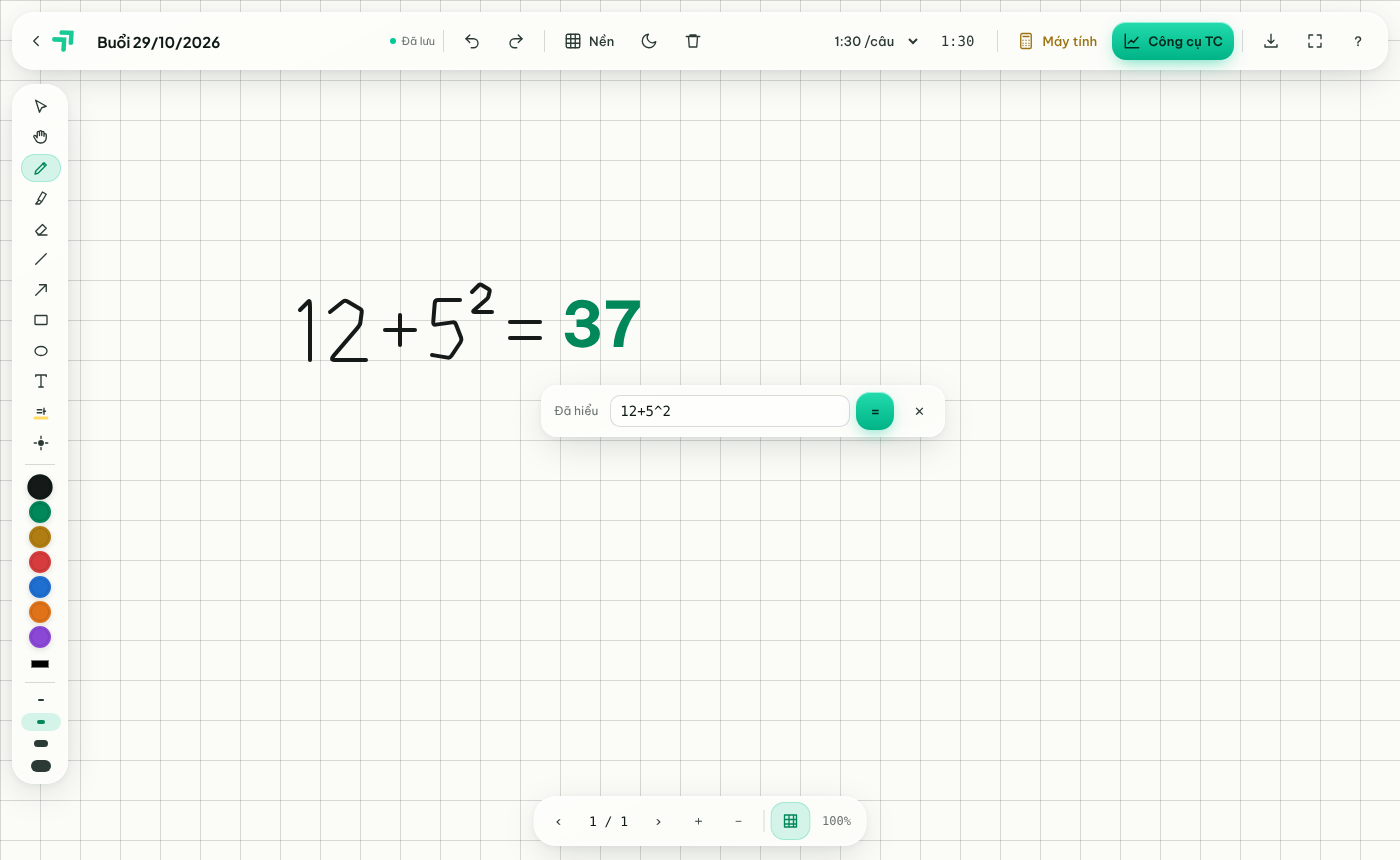
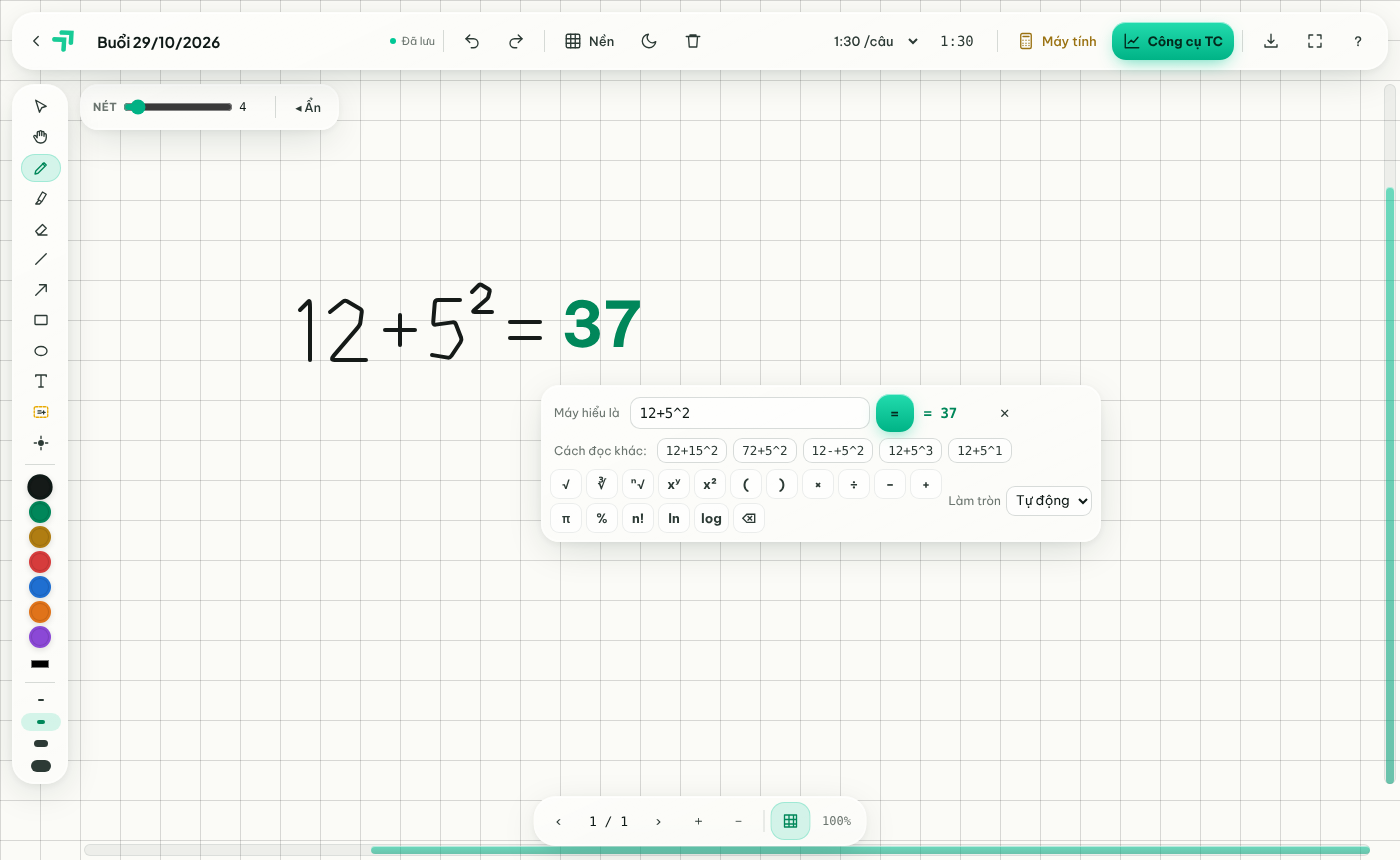
Board: collapsible options bar, horizontal/vertical scrollbars, handwritten square/cube/nth roots, editable quick-calc box with alternatives, symbol keys and rounding
Claude-Session: https://claude.ai/code/session_0122dQQrPJLo3HJ8s42V9fTe

diff --git a/board/index.html b/board/index.html
@@ -104,9 +104,20 @@ button{cursor:pointer;border:none;background:none}
 #qcBar.show{display:flex}
 #qcBar b{color:#9a7212} :root[data-theme="dark"] #qcBar b{color:var(--gold)}
 #qcBar .dot{width:10px;height:10px;border-radius:50%;background:#ffd84a;box-shadow:0 0 10px #ffd84a}
-#qcChip{position:fixed;z-index:35;display:none;align-items:center;gap:6px;padding:6px;border-radius:16px;font-size:12px}
+#qcChip{position:fixed;z-index:35;display:none;flex-direction:column;gap:6px;padding:8px;border-radius:18px;font-size:12px;max-width:min(560px,calc(100vw - 16px))}
 #qcChip.show{display:flex}
-#qcChip span{padding:0 6px;color:var(--muted);white-space:nowrap}
+#qcChip .qrow{display:flex;align-items:center;gap:6px;flex-wrap:wrap}
+#qcChip span{padding:0 4px;color:var(--muted);white-space:nowrap}
+#qcPrev{font-family:var(--mono);font-size:14px;font-weight:700;color:var(--accent-tx)!important;min-width:60px}
+#qcPrev.bad{color:var(--red)!important;font-weight:500;font-size:11.5px;font-family:var(--ff-body)}
+.qalts:empty{display:none}
+.qa{font-family:var(--mono);font-size:12.5px;padding:5px 9px;border-radius:9px;background:var(--input);box-shadow:inset 0 0 0 1px var(--line2)}
+.qa:hover{box-shadow:inset 0 0 0 1px var(--emerald);color:var(--accent-tx)}
+.qkeys{display:flex;flex-wrap:wrap;gap:4px;flex:1}
+.qkeys button{min-width:32px;height:30px;padding:0 7px;border-radius:9px;font-size:13px;font-weight:600;background:var(--input);box-shadow:inset 0 0 0 1px var(--line)}
+.qkeys button:hover{color:var(--accent-tx);box-shadow:inset 0 0 0 1px var(--emerald)}
+.qdec{display:flex;align-items:center;gap:5px;color:var(--muted);white-space:nowrap}
+.qdec select{height:30px;border-radius:9px;border:1px solid var(--line2);background:var(--input);color:var(--white);outline:none;padding:0 5px}
 #qcChip input{font-family:var(--mono);font-size:14px;background:var(--input);border:1px solid var(--line2);border-radius:10px;padding:7px 9px;width:240px;outline:none;color:var(--white);user-select:text;-webkit-user-select:text}
 #qcChip input:focus{border-color:var(--emerald)}
 
@@ -227,6 +238,7 @@ body.at-home #top,body.at-home #tools,body.at-home #pages,body.at-home #calc{dis
 .hempty{max-width:1240px;margin:60px auto;text-align:center;color:var(--muted)}
 .props{position:fixed;top:84px;left:80px;z-index:19;display:none;align-items:center;gap:6px;padding:6px 8px;border-radius:18px;max-width:calc(100% - 100px);flex-wrap:wrap}
 .props.show{display:flex}
+.props.mini{padding:4px}
 .props .pl{font-size:11px;color:var(--muted);font-weight:600;letter-spacing:.04em;padding-left:4px}
 .props input[type=range]{width:110px;accent-color:#00b386}
 .props .pv{font-family:var(--mono);font-size:12px;min-width:26px;color:var(--white)}
@@ -234,6 +246,14 @@ body.at-home #top,body.at-home #tools,body.at-home #pages,body.at-home #calc{dis
 .props input[type=number]{width:58px;font-family:var(--mono)}
 .props .tb{height:32px;min-width:32px;padding:0 9px;font-size:12.5px}
 .props .tb.danger{color:var(--red)}
+.sbar{position:fixed;z-index:18;border-radius:99px;background:rgba(15,40,32,.06);box-shadow:inset 0 0 0 1px var(--line);transition:opacity .2s}
+:root[data-theme="dark"] .sbar{background:rgba(255,255,255,.05)}
+.sbar.h{left:84px;right:30px;bottom:4px;height:12px}
+.sbar.v{right:4px;top:84px;bottom:76px;width:12px}
+.sbar .sth{position:absolute;border-radius:99px;background:linear-gradient(180deg,rgba(0,200,150,.55),rgba(0,160,120,.55));box-shadow:inset 0 1px 0 rgba(255,255,255,.5);cursor:grab}
+.sbar .sth:hover,.sbar .sth.drag{background:linear-gradient(180deg,#22dcae,#00b386)}
+.sbar.h .sth{top:2px;bottom:2px} .sbar.v .sth{left:2px;right:2px}
+body.at-home .sbar,body.no-sbar .sbar{display:none}
 @media (max-width:760px){.hide-s,.savest{display:none}#calc{right:8px;left:8px;width:auto}.bname{width:34vw}}
 </style>
 </head>
@@ -297,8 +317,15 @@ body.at-home #top,body.at-home #tools,body.at-home #pages,body.at-home #calc{dis
 <div id="calcHint"></div>
 <div id="toast" class="glass"></div>
 <div id="props" class="props glass"></div>
+<div class="sbar h" id="sbH" title="Kéo để cuộn ngang"><div class="sth"></div></div>
+<div class="sbar v" id="sbV" title="Kéo để cuộn dọc"><div class="sth"></div></div>
 <div id="qcBar" class="glass"><span class="dot"></span><span>Kéo <b>khung vàng</b> quanh phép tính viết tay · <b>Ctrl+E</b> hoặc <b>Enter</b> để tính · <b>Esc</b> thoát</span><button class="tb cta" id="qcGo">Tính =</button></div>
-<div id="qcChip" class="glass"><span id="qcMsg">Đã hiểu</span><input id="qcIn" spellcheck="false"><button class="tb cta" id="qcOk" title="Tính lại">=</button><button class="tb" id="qcX" title="Đóng">✕</button></div>
+<div id="qcChip" class="glass">
+  <div class="qrow"><span id="qcMsg">Máy hiểu là</span><input id="qcIn" spellcheck="false"><button class="tb cta" id="qcOk" title="Ghi lại kết quả (Enter)">=</button><span id="qcPrev"></span><button class="tb" id="qcX" title="Đóng">✕</button></div>
+  <div class="qrow qalts" id="qcAlts"></div>
+  <div class="qrow"><div class="qkeys" id="qcKeys"><button data-i="√(">√</button><button data-i="∛(">∛</button><button data-i="root("> ⁿ√</button><button data-i="^">xʸ</button><button data-i="^2">x²</button><button data-i="(">(</button><button data-i=")">)</button><button data-i="×">×</button><button data-i="÷">÷</button><button data-i="−">−</button><button data-i="+">+</button><button data-i="π">π</button><button data-i="%">%</button><button data-i="!">n!</button><button data-i="ln(">ln</button><button data-i="log(">log</button><button data-i="⌫">⌫</button></div>
+  <label class="qdec">Làm tròn <select id="qcDec"><option value="auto">Tự động</option><option value="0">0</option><option value="2">2 số</option><option value="4">4 số</option><option value="6">6 số</option></select></label></div>
+</div>
 <div class="menu glass" id="cardMenu">
   <button id="cmOpen">Mở bảng</button>
   <button id="cmRename">Đổi tên</button>
@@ -317,6 +344,8 @@ body.at-home #top,body.at-home #tools,body.at-home #pages,body.at-home #calc{dis
   <button data-pat="grid">Lưới ô</button>
   <button data-pat="dots">Chấm nhỏ</button>
   <button data-pat="lines">Dòng kẻ</button>
+  <div class="t">Hiển thị</div>
+  <button id="mSbar">Thanh cuộn ngang / dọc</button>
 </div>
 <div class="menu glass" id="fileMenu">
   <button id="mPng">Xuất trang này ra PNG</button>
@@ -479,6 +508,8 @@ body.at-home #top,body.at-home #tools,body.at-home #pages,body.at-home #calc{dis
       <ul>
         <li><kbd>V</kbd> chọn · <kbd>H</kbd> kéo bảng · <kbd>P</kbd> bút · <kbd>M</kbd> bút dạ quang · <kbd>E</kbd> tẩy · <kbd>L</kbd> đường · <kbd>A</kbd> mũi tên · <kbd>R</kbd> chữ nhật · <kbd>O</kbd> elip · <kbd>T</kbd> chữ · <kbd>K</kbd> laser</li>
         <li>Thanh tuỳ chọn phía trên hiện theo công cụ: độ dày nét, nét đứt, tô nền, font chữ, cỡ chữ, đậm/nghiêng, khung. Chọn sẵn đối tượng (V) rồi đổi là áp dụng luôn.</li>
+        <li>Thanh cuộn ngang ở đáy và dọc ở mép phải: kéo để đi khắp bảng (bật/tắt trong nút <b>Nền</b>). Thanh tuỳ chọn có nút <b>◂ Ẩn</b> để thu gọn.</li>
+        <li>Ô "Máy hiểu là" sau khi tính nhanh: sửa trực tiếp, chọn "cách đọc khác", bấm phím ký hiệu (√ ∛ ⁿ√ xʸ π n! ln…) và chọn số chữ số làm tròn.</li>
         <li>Dán ảnh: copy ảnh hoặc chụp màn hình (Win+Shift+S) rồi <kbd>Ctrl+V</kbd> trên bảng. Chọn ảnh → <b>✂ Cắt ảnh</b> → kéo khung phần muốn giữ.</li>
         <li><kbd>1</kbd>–<kbd>7</kbd> đổi màu · <kbd>[</kbd> <kbd>]</kbd> nét nhỏ/to · giữ <kbd>Shift</kbd> để vẽ thẳng 45° / hình vuông</li>
         <li>Giữ <kbd>Space</kbd> hoặc chuột giữa để kéo bảng · <kbd>Ctrl</kbd>+lăn chuột / chụm 2 ngón để zoom · <kbd>Ctrl+0</kbd> về 100%</li>
@@ -906,6 +937,44 @@ function drawObj(c, o) {
   }
   c.restore();
 }
+/* scrollbars: the board is unbounded, so the scroll range = drawn content + current view, padded */
+let sbExt = null, showSbar = true;
+try { showSbar = localStorage.getItem('elevato-board-sbar') !== 'off'; } catch (e) {}
+function worldExtent() {
+  const [vx0, vy0] = toWorld(0, 0), [vx1, vy1] = toWorld(W, H), pw = vx1 - vx0, ph = vy1 - vy0;
+  let a = vx0, b = vy0, c = vx1, d = vy1;
+  for (const o of page().objs) { const bb = bbox(o); a = Math.min(a, bb[0] - pw * .5); b = Math.min(b, bb[1] - ph * .5); c = Math.max(c, bb[2] + pw * .5); d = Math.max(d, bb[3] + ph * .5); }
+  return { a, b, c, d, vx0, vy0, pw, ph };
+}
+function updBars() {
+  if (!showSbar || document.body.classList.contains('at-home')) return;
+  const e = sbExt || worldExtent(), [vx0, vy0] = toWorld(0, 0);
+  for (const [el, horiz] of [[$('sbH'), true], [$('sbV'), false]]) {
+    const L = horiz ? el.clientWidth : el.clientHeight, span = horiz ? e.c - e.a : e.d - e.b, vis = horiz ? e.pw : e.ph, pos = horiz ? vx0 - e.a : vy0 - e.b;
+    const size = Math.max(36, Math.min(L, L * vis / span)), off = Math.max(0, Math.min(L - size, (L - size) * pos / Math.max(1e-6, span - vis)));
+    const th = el.firstElementChild; if (horiz) { th.style.width = size + 'px'; th.style.left = off + 'px'; } else { th.style.height = size + 'px'; th.style.top = off + 'px'; }
+  }
+}
+for (const [id, horiz] of [['sbH', true], ['sbV', false]]) {
+  const el = $(id), th = el.firstElementChild;
+  let st = null;
+  th.addEventListener('pointerdown', e => { e.stopPropagation(); th.setPointerCapture(e.pointerId); th.classList.add('drag'); sbExt = worldExtent(); st = { p: horiz ? e.clientX : e.clientY, v: { ...view() } }; });
+  th.addEventListener('pointermove', e => {
+    if (!st) return;
+    const L = horiz ? el.clientWidth : el.clientHeight, size = horiz ? th.offsetWidth : th.offsetHeight, span = horiz ? sbExt.c - sbExt.a : sbExt.d - sbExt.b, vis = horiz ? sbExt.pw : sbExt.ph;
+    const dw = ((horiz ? e.clientX : e.clientY) - st.p) * (span - vis) / Math.max(1, L - size), v = view();
+    if (horiz) v.x = st.v.x - dw * v.z; else v.y = st.v.y - dw * v.z; dirty = true;
+  });
+  th.addEventListener('pointerup', () => { st = null; sbExt = null; th.classList.remove('drag'); save(); });
+  el.addEventListener('pointerdown', e => { // click on the track → jump there
+    if (e.target !== el) return; const r = el.getBoundingClientRect(), ext = worldExtent(), v = view();
+    const f = horiz ? (e.clientX - r.left) / r.width : (e.clientY - r.top) / r.height;
+    if (horiz) v.x = -(ext.a + f * (ext.c - ext.a) - ext.pw / 2) * v.z; else v.y = -(ext.b + f * (ext.d - ext.b) - ext.ph / 2) * v.z;
+    dirty = true; save();
+  });
+}
+function setSbar(on) { showSbar = on; document.body.classList.toggle('no-sbar', !on); $('mSbar').classList.toggle('on', on); try { localStorage.setItem('elevato-board-sbar', on ? 'on' : 'off'); } catch (e) {} dirty = true; }
+$('mSbar').onclick = () => setSbar(!showSbar);
 function render() {
   const v = view(), light = isLight();
   ctx.setTransform(dpr, 0, 0, dpr, 0, 0);
@@ -955,7 +1024,7 @@ function render() {
 }
 const eraserR = () => (ST.eraser / 2) / view().z;
 function loop() {
-  if (dirty || laser.length) { dirty = false; render(); if (!act && sigOf() !== propSig) renderProps(); }
+  if (dirty || laser.length) { dirty = false; render(); updBars(); if (!act && sigOf() !== propSig) renderProps(); }
   requestAnimationFrame(loop);
 }
 let marquee = null, laserDot = null, hover = null, editing = null;
@@ -1194,7 +1263,8 @@ function editSel(fn) {
 
 /* ═══ tool options bar (size, font, dashes…) ═══ */
 const ST = { w: 4, eraser: 20, dash: false, fill: false, textSize: 28, font: 'body', bold: false, italic: false, card: false };
-let cropTarget = null, propSig = '';
+let cropTarget = null, propSig = '', propsHidden = false;
+try { propsHidden = localStorage.getItem('elevato-board-props') === 'hidden'; } catch (e) {}
 function selObjs() { return tool === 'select' ? page().objs.filter(o => sel.has(o.id)) : []; }
 function renderProps() {
   const so = selObjs(), kinds = new Set(so.length ? so.map(o => o.t) : [tool]), bar = $('props');
@@ -1217,7 +1287,8 @@ function renderProps() {
   }
   if (so.length === 1 && so[0].t === 'img') h += `<button class="tb ${cropTarget ? 'on' : ''}" data-p="crop">✂ Cắt ảnh</button>${so[0].crop ? '<button class="tb" data-p="uncrop">Ảnh gốc</button>' : ''}`;
   if (so.length) h += `<span class="sep"></span><button class="tb" data-p="front" title="Đưa lên trên cùng">⬆ Lên trên</button><button class="tb" data-p="dup" title="Nhân bản (Ctrl+D)">⧉</button><button class="tb danger" data-p="del" title="Xoá (Del)">🗑</button>`;
-  bar.innerHTML = h; bar.classList.toggle('show', !!h && !document.body.classList.contains('at-home'));
+  if (h) h = propsHidden ? '<button class="tb" data-p="unhide" title="Hiện thanh tuỳ chọn">⚙ Tuỳ chọn ▸</button>' : h + '<span class="sep"></span><button class="tb" data-p="hide" title="Ẩn thanh tuỳ chọn">◂ Ẩn</button>';
+  bar.innerHTML = h; bar.classList.toggle('show', !!h && !document.body.classList.contains('at-home')); bar.classList.toggle('mini', propsHidden);
   bar.querySelectorAll('[data-p]').forEach(el => {
     const k = el.dataset.p;
     if (el.type === 'range') {
@@ -1235,6 +1306,7 @@ function propAction(k) {
   const so = selObjs(), tx = so.find(o => o.t === 'text');
   const flip = (key, st) => { const nv = so.length ? !(so.find(o => o.t === 'text' || 'x1' in o) || {})[key] : !ST[st]; ST[st] = nv; editSel(o => { if (key === 'dash' || key === 'fill' ? 'x1' in o : o.t === 'text') { o[key] = nv ? 1 : 0; if (o.t === 'text') measureText(o); } }); };
   switch (k) {
+    case 'hide': case 'unhide': propsHidden = k === 'hide'; try { localStorage.setItem('elevato-board-props', propsHidden ? 'hidden' : 'shown'); } catch (e) {} break;
     case 'dash': flip('dash', 'dash'); break;
     case 'fill': flip('fill', 'fill'); break;
     case 'bold': flip('b', 'bold'); break;
@@ -1861,7 +1933,7 @@ function boxOf(list) {
   return { x1, y1, x2, y2, w: x2 - x1, h: y2 - y1 };
 }
 const mkItem = pts => ({ pts, ...boxOf(pts.map(([x, y]) => ({ x1: x, y1: y, x2: x, y2: y }))) });
-const strokesOf = list => list.flatMap(i => i.frac ? [] : i.items ? strokesOf(i.items) : [i.pts]);
+const strokesOf = list => list.flatMap(i => i.frac || i.rad ? [] : i.items ? strokesOf(i.items) : [i.pts]);
 const isFlat = i => !i.frac && i.w > 3 && i.h < Math.max(4, i.w * .28);
 
 // recogniser: Google handwriting service (needs internet); returns candidate strings
@@ -1878,16 +1950,44 @@ async function hwRecognize(strokes) {
 }
 // handwriting look-alikes → math characters
 const HW_MAP = { x: '*', X: '*', '×': '*', '·': '*', '•': '*', '∙': '*', '÷': '/', ':': '/', o: '0', O: '0', D: '0', Q: '0', '°': '0', l: '1', I: '1', '|': '1', i: '1', j: '1', s: '5', S: '5',
-  z: '2', Z: '2', g: '9', q: '9', b: '6', G: '6', B: '8', '&': '8', T: '7', ',': '.', '−': '-', '–': '-', '—': '-', '_': '-', '~': '-', '[': '(', '{': '(', ']': ')', '}': ')', '∧': '^', '＋': '+', t: '+' };
+  z: '2', Z: '2', g: '9', q: '9', b: '6', G: '6', B: '8', '&': '8', T: '7', ',': '.', '−': '-', '–': '-', '—': '-', '_': '-', '~': '-', '[': '(', '{': '(', ']': ')', '}': ')', '∧': '^', '＋': '+', t: '+', '√': '√', '∛': '∛', 'π': 'π', '^': '^' };
 function hwNorm(t, sup) {
-  t = [...t.replace(/\s+/g, '')].map(c => HW_MAP[c] ?? c).join('').replace(/[^0-9.+\-*/^()%=√]/g, '');
+  t = [...t.replace(/\s+/g, '')].map(c => HW_MAP[c] ?? c).join('').replace(/[^0-9.+\-*/^()%=√∛π!]/g, '');
   if (sup) t = t.replace(/^\^+/, '');
   return t;
 }
 // lay strokes out like handwriting: fraction bars, superscripts (exponents), plain runs
+// √ drawn as one stroke: hook down to a low vertex, up, then a flat overbar to the right
+function radicalOf(it, H0) {
+  const P = it.pts; if (!P || P.length < 5 || it.w < H0 * .7 || it.h < H0 * .7) return null;
+  let iLow = 0; P.forEach((p, i) => { if (p[1] > P[iLow][1]) iLow = i; });
+  if (iLow === 0 || iLow > P.length * .75) return null;
+  const top = it.y1 + it.h * .22;
+  let iTop = -1; for (let i = iLow; i < P.length; i++) if (P[i][1] <= top) { iTop = i; break; }
+  if (iTop < 0 || P[0][1] < top) return null;
+  const barEnd = Math.max(...P.slice(iTop).map(p => p[0]));
+  if (barEnd - P[iTop][0] < Math.max(it.w * .3, H0 * .45)) return null;
+  return { x0: P[iLow][0], barEnd, y: it.y1, y2: it.y2 };
+}
 async function hwParse(items, out) {
   if (!items.length) return [''];
   const ref = items.filter(i => !isFlat(i)), H0 = median(ref.map(i => i.h)) || 20;
+  // a √ written as check-mark + separate overbar → join into one stroke first
+  for (const c of items.filter(i => !isFlat(i) && i.pts)) {
+    const P = c.pts, end = P[P.length - 1];
+    if (end[1] > c.y1 + c.h * .25 || P[0][1] < c.y1 + c.h * .3) continue;
+    const bar = items.find(f => f !== c && isFlat(f) && Math.abs(f.x1 - end[0]) < H0 * .6 && Math.abs((f.y1 + f.y2) / 2 - end[1]) < H0 * .5 && f.w > H0 * .5);
+    if (bar && items.includes(c)) { const pts = P.concat(bar.pts[0][0] < bar.pts[bar.pts.length - 1][0] ? bar.pts : [...bar.pts].reverse()); items = items.filter(i => i !== c && i !== bar).concat([mkItem(pts)]); }
+  }
+  // radicals (√ and ⁿ√ with a small index over the hook)
+  for (const it of [...items]) {
+    const r = items.includes(it) && radicalOf(it, H0); if (!r) continue;
+    const inner = items.filter(i => i !== it && (i.x1 + i.x2) / 2 > r.x0 && (i.x1 + i.x2) / 2 < r.barEnd + H0 * .2 && (i.y1 + i.y2) / 2 > r.y - H0 * .1 && (i.y1 + i.y2) / 2 < r.y2 + H0 * .3);
+    if (!inner.length) continue;
+    const idx = items.filter(i => i !== it && !inner.includes(i) && i.h < it.h * .6 && (i.x1 + i.x2) / 2 < r.x0 && i.y2 < (it.y1 + it.y2) / 2 + H0 * .1 && i.x2 > it.x1 - H0 * .5);
+    const node = { rad: true, inner, idx, ...boxOf([it, ...inner, ...idx]) };
+    items = items.filter(i => i !== it && !inner.includes(i) && !idx.includes(i)).concat([node]);
+  }
   for (const bar of items.filter(i => isFlat(i) && i.w > H0 * 1.1).sort((a, b) => b.w - a.w)) {
     if (!items.includes(bar)) continue;
     const cy = (bar.y1 + bar.y2) / 2, inSpan = i => { const cx = (i.x1 + i.x2) / 2; return cx > bar.x1 - bar.w * .08 && cx < bar.x2 + bar.w * .08; };
@@ -1898,33 +1998,41 @@ async function hwParse(items, out) {
       items = items.filter(i => i !== bar && !above.includes(i) && !below.includes(i)).concat([node]);
     }
   }
-  // characters = strokes that overlap horizontally
+  const isNode = i => i.frac || i.rad;
+  // characters = strokes that overlap horizontally (but a small raised stroke is an exponent, not part of its base)
   const cl = [];
   for (const it of [...items].sort((a, b) => a.x1 - b.x1)) {
     const last = cl[cl.length - 1];
-    if (last && !it.frac && !last.frac && Math.min(it.x2, last.x2) - it.x1 > .35 * Math.min(it.w || 1, last.w || 1)) { last.items.push(it); Object.assign(last, boxOf(last.items)); }
-    else cl.push(it.frac ? it : { items: [it], ...boxOf([it]) });
+    const raised = (a, b) => !isFlat(a) && a.h < b.h * .62 && a.y2 < (b.y1 + b.y2) / 2;
+    if (last && !isNode(it) && !isNode(last) && Math.min(it.x2, last.x2) - it.x1 > .35 * Math.min(it.w || 1, last.w || 1) && !raised(it, last) && !raised(last, it)) { last.items.push(it); Object.assign(last, boxOf(last.items)); }
+    else cl.push(isNode(it) ? it : { items: [it], ...boxOf([it]) });
   }
-  let body = cl.filter(c => !c.frac && !c.items.every(isFlat));
-  if (!body.length) body = cl.map(c => c.frac ? { ...c, h: c.h / 2.2 } : c); // e.g. a lone fraction
+  let body = cl.filter(c => !isNode(c) && !c.items.every(isFlat));
+  if (!body.length) body = cl.map(c => isNode(c) ? { ...c, h: c.frac ? c.h / 2.2 : c.h * .8 } : c); // e.g. a lone fraction or root
   const hs = body.map(c => c.h).sort((a, b) => b - a);
   const big = body.filter(c => c.h >= (hs[Math.floor(hs.length / 2)] || 0) * .99), H = median(big.map(c => c.h)) || H0, mid = median(big.map(c => (c.y1 + c.y2) / 2));
   cl.forEach(c => {
-    const flat = !c.frac && c.items.every(isFlat), cy = (c.y1 + c.y2) / 2;
-    c.sup = !c.frac && (flat ? cy < mid - .38 * H : c.h < .8 * H && c.y2 < mid + .12 * H);
+    const flat = !isNode(c) && c.items.every(isFlat), cy = (c.y1 + c.y2) / 2;
+    c.sup = !isNode(c) && (flat ? cy < mid - .38 * H : c.h < .8 * H && c.y2 < mid + .12 * H);
   });
   out.H = out.H || H; out.mid = out.mid ?? mid;
   // consecutive same-level characters form a run sent to the recogniser together
   const runs = [];
-  for (const c of cl) { const last = runs[runs.length - 1]; if (c.frac || !last || last.frac || last.sup !== c.sup) runs.push(c.frac ? c : { sup: c.sup, cs: [c] }); else last.cs.push(c); }
+  for (const c of cl) { const last = runs[runs.length - 1]; if (isNode(c) || !last || isNode(last) || last.sup !== c.sup) runs.push(isNode(c) ? c : { sup: c.sup, cs: [c] }); else last.cs.push(c); }
+  if (out.struct === undefined) out.struct = runs.some(r => isNode(r) || r.sup);
   return Promise.all(runs.map(async r => {
     if (r.frac) { const [n, d] = await Promise.all([hwParse(r.num, {}), hwParse(r.den, {})]); return [`(${n[0]})/(${d[0]})`]; }
+    if (r.rad) {
+      const [inn, ix] = await Promise.all([hwParse(r.inner, {}), r.idx.length ? hwRecognize(r.idx.map(i => i.pts)) : Promise.resolve([])]);
+      const n = ix.map(t => hwNorm(t)).find(t => /^\d+$/.test(t));
+      return [!n || n === '2' ? `√(${inn[0]})` : n === '3' ? `∛(${inn[0]})` : `root(${inn[0]},${n})`];
+    }
     const cands = (await hwRecognize(r.cs.flatMap(c => strokesOf(c.items)))).map(t => hwNorm(t, r.sup)).filter((t, i, a) => t && a.indexOf(t) === i);
     if (!cands.length) cands.push('');
     return r.sup ? cands.map(t => `^(${t})`) : cands;
   })).then(opts => { out.opts = opts; return opts.map(o => o[0]); }).then(first => [first.join('')]);
 }
-const prettyMath = e => e.replace(/\*/g, '×').replace(/\//g, '÷').replace(/\^\((\d+(\.\d+)?)\)/g, '^$1');
+const prettyMath = e => e.replace(/\bsqrt\(/g, '√(').replace(/\bcbrt\(/g, '∛(').replace(/\bpi\b/g, 'π').replace(/\*/g, '×').replace(/\//g, '÷').replace(/\^\((\d+(\.\d+)?)\)/g, '^$1');
 function qcEval(expr) {
   const lhs = expr.split('=')[0];
   return { lhs, v: evalExpr(lhs.replace(/×/g, '*').replace(/÷/g, '/'), scopeFor()) };
@@ -1944,42 +2052,65 @@ async function qcRun() {
   else {
     toast('Đang đọc chữ viết tay…');
     try {
-      const out = {}; await hwParse(pens.map(o => mkItem(o.pts)), out);
+      const out = {}, whole = hwRecognize(pens.map(o => o.pts)).catch(() => []);
+      await hwParse(pens.map(o => mkItem(o.pts)), out);
       if (out.H) { place.H = out.H; place.mid = out.mid; }
       // first combination that evaluates wins; otherwise try other candidates run by run
       const opts = out.opts, pick = opts.map(() => 0), build = () => opts.map((o, i) => o[pick[i]]).join('');
       expr = build();
       const ok = e => { try { qcEval(e); return /\d/.test(e.split('=')[0]); } catch (er) { return false; } };
       for (let i = 0; i < opts.length && !ok(expr); i++) for (let j = 1; j < opts[i].length; j++) { pick[i] = j; if (ok(build())) { expr = build(); break; } pick[i] = 0; }
+      // other readings the teacher can pick from in the little box
+      const alts = [expr];
+      opts.forEach((o, i) => o.slice(1, 4).forEach(c => { const save = pick[i]; pick[i] = o.indexOf(c); alts.push(build()); pick[i] = save; }));
+      if (!out.struct) (await whole).forEach(t => alts.push(hwNorm(t))); // flat line: the one-shot reading is a useful second opinion
+      place.alts = [...new Set(alts.map(a => a.split('=')[0]).filter(a => a && ok(a)))].slice(0, 6);
     } catch (e) { return qcChip(null, place, 'Không đọc được chữ (cần kết nối mạng) — gõ lại phép tính:'); }
   }
   hadEq = /=/.test(expr);
   qcChip(expr, place, null, hadEq);
 }
-// write/refresh the answer right after the "=" and show what was understood
+// write/refresh the answer right after the "=" and let the teacher fix the reading in the little box
+let qcDec = 'auto';
+try { qcDec = localStorage.getItem('elevato-board-qcdec') || 'auto'; } catch (e) {}
+const qcFmt = v => qcDec === 'auto' ? fmtNum(v) : fmtNum(v, +qcDec);
 function qcChip(expr, place, msg, hadEq) {
   const chip = $('qcChip'), inp = $('qcIn');
   const show = () => {
     const [sx, sy] = toScreen(qcResult ? qcResult.x : place.x, (qcResult ? qcResult.y + qcResult.h : place.mid + place.H / 2));
-    chip.style.left = Math.min(innerWidth - 420, Math.max(8, sx - 20)) + 'px'; chip.style.top = Math.min(innerHeight - 60, sy + 12) + 'px'; chip.classList.add('show');
+    chip.classList.add('show');
+    chip.style.left = Math.min(innerWidth - chip.offsetWidth - 8, Math.max(8, sx - 20)) + 'px'; chip.style.top = Math.min(innerHeight - chip.offsetHeight - 8, sy + 12) + 'px';
   };
+  const preview = () => { try { $('qcPrev').textContent = '= ' + qcFmt(qcEval(inp.value).v); $('qcPrev').classList.remove('bad'); } catch (er) { $('qcPrev').textContent = er.message; $('qcPrev').classList.add('bad'); } };
   const write = e => {
-    let r; try { r = qcEval(e); } catch (er) { $('qcMsg').textContent = '⚠ ' + er.message; show(); inp.focus(); return false; }
-    const txt = (hadEq ? '' : '= ') + fmtNum(r.v), s = Math.round(Math.min(120, Math.max(18, place.H * 1.05)));
+    let r; try { r = qcEval(e); } catch (er) { $('qcMsg').textContent = '⚠ Chưa tính được'; preview(); show(); inp.focus(); return false; }
+    const txt = (hadEq ? '' : '= ') + qcFmt(r.v), s = Math.round(Math.min(120, Math.max(18, place.H * 1.05)));
     if (qcResult && page().objs.includes(qcResult)) { qcResult.txt = txt; measureText(qcResult); }
     else { qcResult = addText(txt, place.x + place.H * .35, place.mid - s * .62, { s, b: 1, c: col()[1] }); }
-    commit(); $('qcMsg').textContent = 'Đã hiểu'; inp.value = prettyMath(r.lhs); show(); return true;
+    commit(); $('qcMsg').textContent = 'Máy hiểu là'; inp.value = prettyMath(r.lhs); preview(); show(); return true;
   };
   qcResult = null;
   inp.value = expr ? prettyMath(expr.split('=')[0]) : '';
-  $('qcMsg').textContent = msg || 'Đã hiểu';
-  if (expr && write(expr)) { clearTimeout(qcChip.t); qcChip.t = setTimeout(() => { if (document.activeElement !== inp) chip.classList.remove('show'); }, 9000); }
-  else { show(); setTimeout(() => inp.focus(), 0); }
+  $('qcMsg').textContent = msg || 'Máy hiểu là';
+  const alts = (place.alts || []).map(prettyMath).filter((a, i, arr) => arr.indexOf(a) === i);
+  $('qcAlts').innerHTML = alts.length > 1 ? '<span>Cách đọc khác:</span>' + alts.slice(1).map(a => `<button class="qa">${esc(a)}</button>`).join('') : '';
+  $('qcAlts').querySelectorAll('.qa').forEach(b => b.onclick = () => write(b.textContent));
+  $('qcDec').value = qcDec;
+  $('qcDec').onchange = e => { qcDec = e.target.value; try { localStorage.setItem('elevato-board-qcdec', qcDec); } catch (er) {} write(inp.value); };
+  $('qcKeys').querySelectorAll('button').forEach(b => b.onclick = () => {
+    const ins = b.dataset.i, a = inp.selectionStart ?? inp.value.length, z = inp.selectionEnd ?? a;
+    if (ins === '⌫') { inp.value = a === z ? inp.value.slice(0, Math.max(0, a - 1)) + inp.value.slice(z) : inp.value.slice(0, a) + inp.value.slice(z); inp.focus(); inp.setSelectionRange(Math.max(0, a === z ? a - 1 : a), Math.max(0, a === z ? a - 1 : a)); }
+    else { inp.value = inp.value.slice(0, a) + ins + inp.value.slice(z); inp.focus(); inp.setSelectionRange(a + ins.length, a + ins.length); }
+    preview();
+  });
+  if (expr && write(expr)) { clearTimeout(qcChip.t); qcChip.t = setTimeout(() => { if (!chip.matches(':hover') && !chip.contains(document.activeElement)) chip.classList.remove('show'); }, 12000); }
+  else { preview(); show(); setTimeout(() => inp.focus(), 0); }
   $('qcOk').onclick = () => write(inp.value);
+  inp.oninput = preview;
   inp.onkeydown = e => { e.stopPropagation(); if (e.key === 'Enter') { if (write(inp.value)) inp.blur(); } if (e.key === 'Escape') chip.classList.remove('show'); };
 }
 $('qcX').onclick = () => $('qcChip').classList.remove('show');
-cv.addEventListener('pointerdown', () => { if (document.activeElement !== $('qcIn')) $('qcChip').classList.remove('show'); });
+cv.addEventListener('pointerdown', () => { if (!$('qcChip').contains(document.activeElement)) $('qcChip').classList.remove('show'); });
 
 /* ═══════════════ BA II PLUS ═══════════════ */
 const KEYS = [
@@ -2487,7 +2618,7 @@ $('cInsT').onclick = () => {
 };
 
 /* ═══════════════ BOOT ═══════════════ */
-setTheme(THEME); buildTools(); setCalcMode(CM); updTools(); updPages(); updTimer(); updBgMenu(); resize();
+setTheme(THEME); setSbar(showSbar); buildTools(); setCalcMode(CM); updTools(); updPages(); updTimer(); updBgMenu(); resize();
 addEventListener('resize', resize);
 document.fonts && document.fonts.ready.then(() => { doc.pages.forEach(p => p.objs.forEach(o => o.t === 'text' && measureText(o))); dirty = true; });
 boot();
